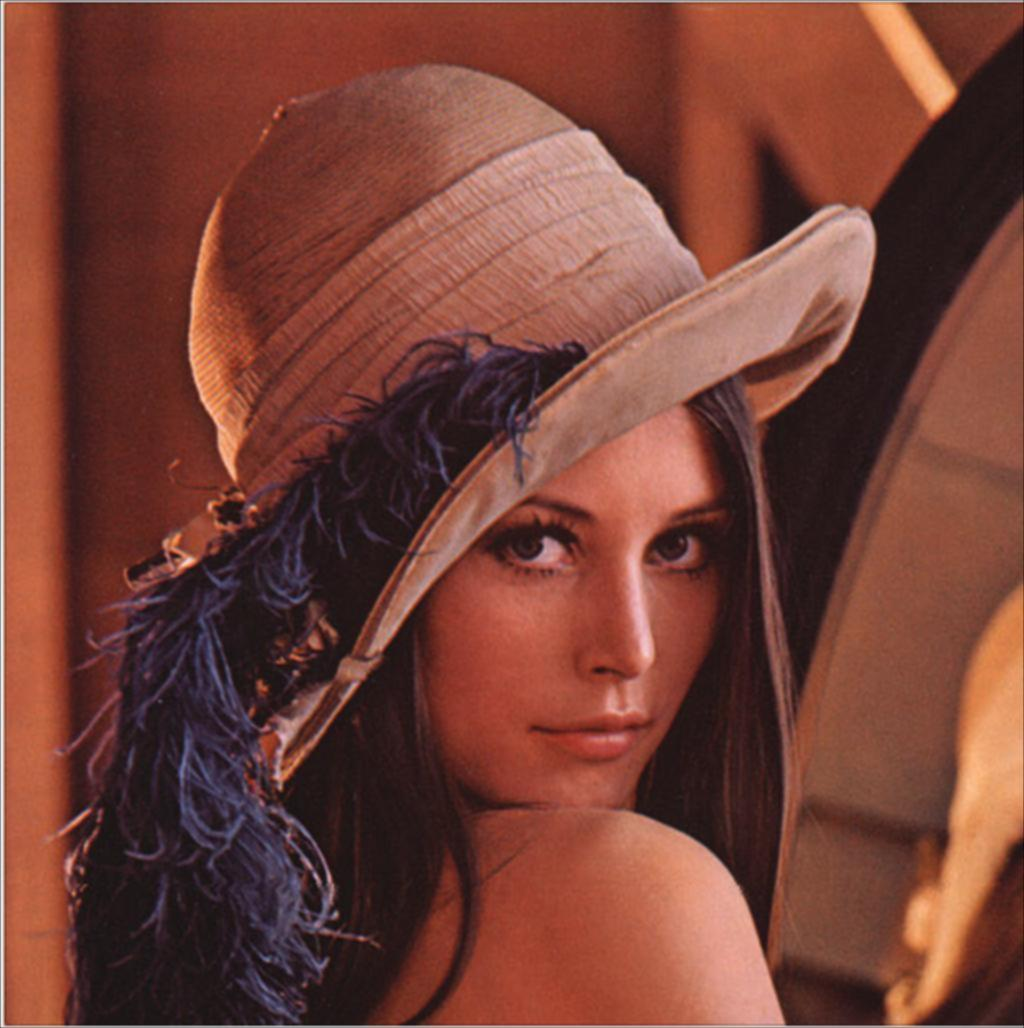
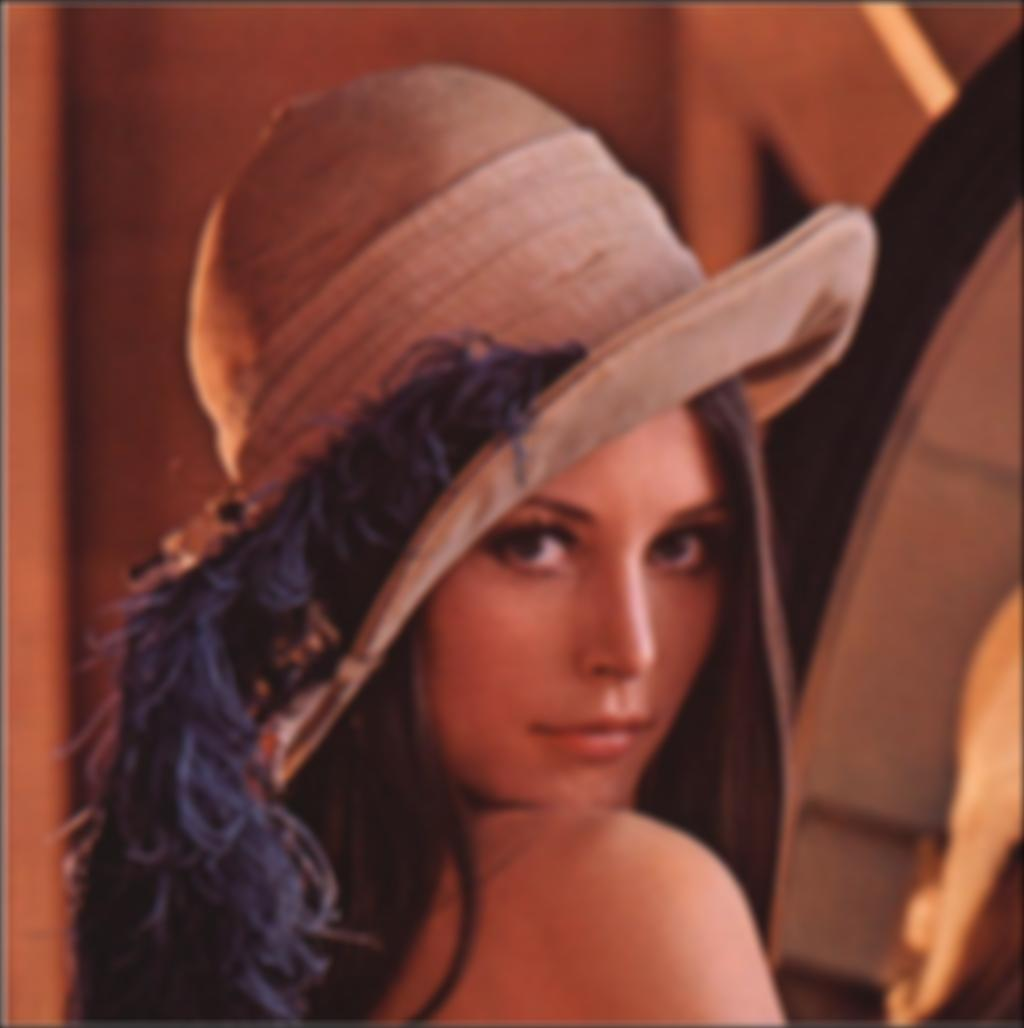
added gaussian filter

diff --git a/mavrick/filters/gaussian_filter.py b/mavrick/filters/gaussian_filter.py
@@ -1,0 +1,25 @@
+import jax.numpy as jnp
+from jax import jit
+from jax.scipy.signal import convolve2d
+
+def gaussian_kernel(size, sigma):
+    """Generates a Gaussian kernel."""
+    x = jnp.linspace(-size // 2, size // 2, size)
+    gauss = jnp.exp(-0.5 * (x / sigma) ** 2)
+    kernel = jnp.outer(gauss, gauss)
+    kernel /= jnp.sum(kernel)
+    return kernel
+
+def apply_gaussian_filter(image, size=5, sigma=1.0):
+    """Applies a Gaussian filter to an image using JAX for computations."""
+    kernel = gaussian_kernel(size, sigma)
+    if image.ndim == 2:  # Grayscale image
+        return jnp.clip(convolve2d(image, kernel, mode='same'), 0, 255)
+    elif image.ndim == 3:  # RGB image
+        channels = [convolve2d(image[..., i], kernel, mode='same') for i in range(image.shape[-1])]
+        return jnp.clip(jnp.stack(channels, axis=-1), 0, 255)
+    else:
+        raise ValueError("Unsupported image dimensions.")
+
+# JIT-compile the main function with size and sigma as static arguments
+apply_gaussian_filter = jit(apply_gaussian_filter, static_argnums=(1, 2))

diff --git a/examples/example_usage.py b/examples/example_usage.py
@@ -1,15 +1,19 @@
 from mavrick.core.image_io import load_image, save_image
-from mavrick.filters import apply_filter
-import numpy as np
+from mavrick.filters import apply_filter 
+from mavrick.filters import apply_gaussian_filter
+import numpy as np 
 
 # Load an image
 image = load_image('../mavrick/resources/sample_images/test.jpg')
 
 # Define a simple blur filter
-filter_matrix = np.ones((3, 3)) / 9
+# filter_matrix = np.ones((3, 3)) / 9
 
-# Apply the filter to the image
-filtered_image = apply_filter(image, filter_matrix)
+# # Apply the filter to the image
+# filtered_image = apply_filter(image, filter_matrix)
+
+# Apply the Gaussian filter to the image
+filtered_image = apply_gaussian_filter(image, size=15, sigma=5.0)
 
 # Save the filtered image
 save_image(filtered_image, '../mavrick/resources/sample_images/filtered_test.jpg')

diff --git a/mavrick/filters/__init__.py b/mavrick/filters/__init__.py
@@ -1,7 +1,9 @@
 # mavrick/filters/__init__.py
 import jax.numpy as jnp
 from jax import jit
-from jax.scipy.signal import convolve2d
+from jax.scipy.signal import convolve2d 
+from .gaussian_filter import apply_gaussian_filter
+
 
 @jit
 def apply_filter(image, filter_matrix):
